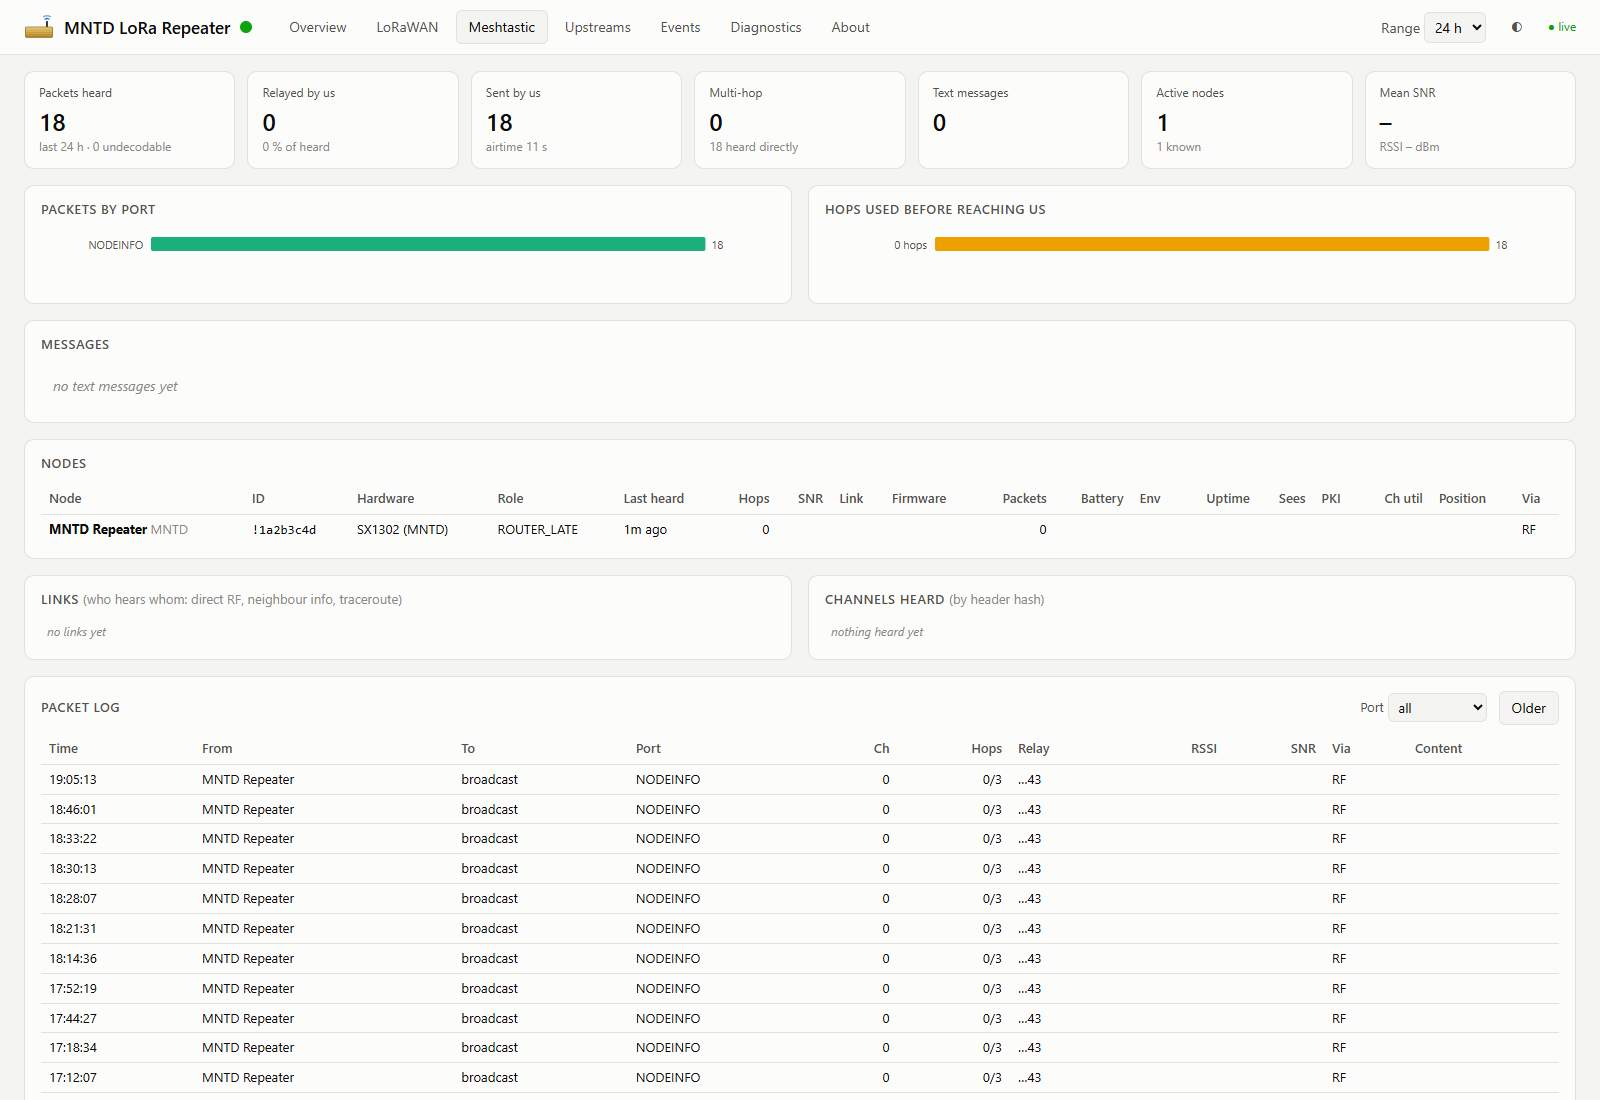
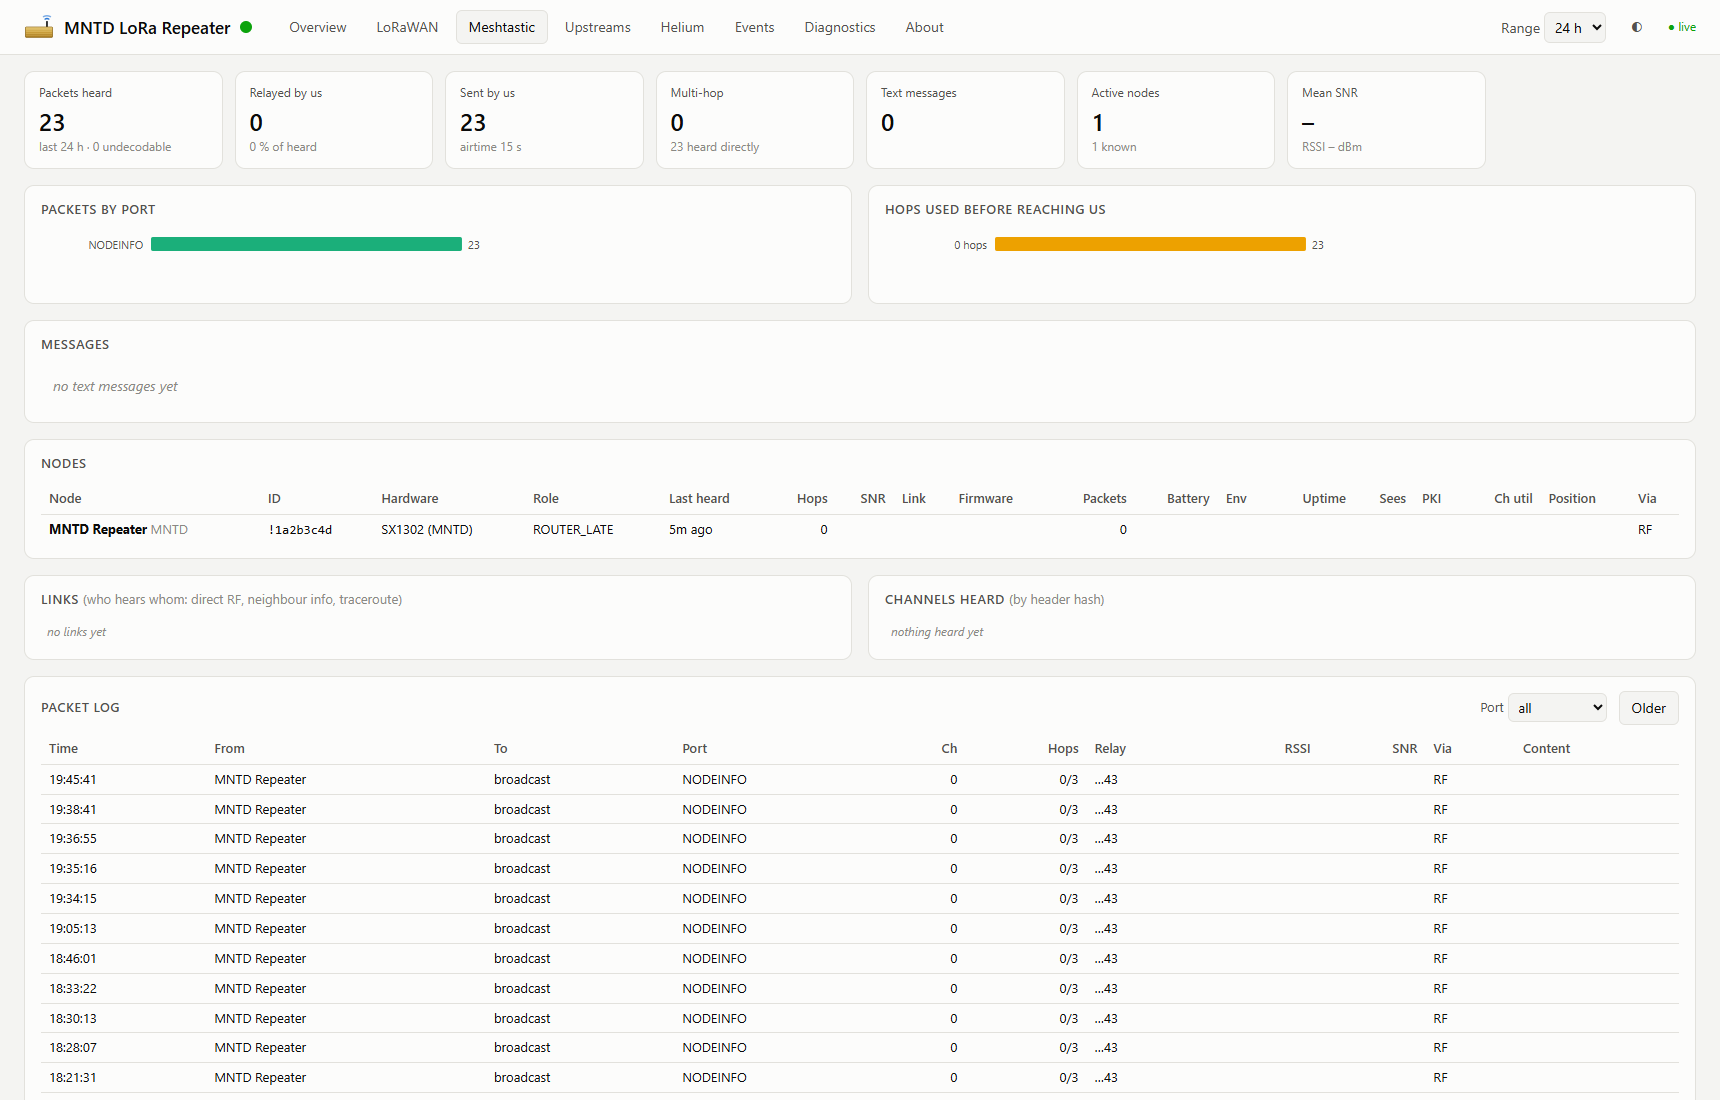
Screenshots: refreshed views, Helium and About added (identity, location, wallet and amounts masked)

diff --git a/README.md b/README.md
@@ -17,10 +17,12 @@ not affiliated with or endorsed by either company; the icon is an original drawi
 | LoRaWAN | Meshtastic |
 |---|---|
 | ![LoRaWAN](docs/screenshots/lorawan.png) | ![Meshtastic](docs/screenshots/meshtastic.png) |
-| **Upstreams** | **Diagnostics** |
-| ![Upstreams](docs/screenshots/upstreams.png) | ![Diagnostics](docs/screenshots/diagnostics.png) |
+| **Upstreams** | **Helium** |
+| ![Upstreams](docs/screenshots/upstreams.png) | ![Helium](docs/screenshots/helium.png) |
+| **Diagnostics** | **About** |
+| ![Diagnostics](docs/screenshots/diagnostics.png) | ![About](docs/screenshots/about.png) |
 
-<sub>Dark theme: [screenshot](docs/screenshots/overview-dark.png). Addresses and identifiers in the screenshots are masked.</sub>
+<sub>Dark theme: [screenshot](docs/screenshots/overview-dark.png). Addresses, identifiers and the Helium hotspot, location, wallet and amounts in the screenshots are masked.</sub>
 
 ## Features
 
